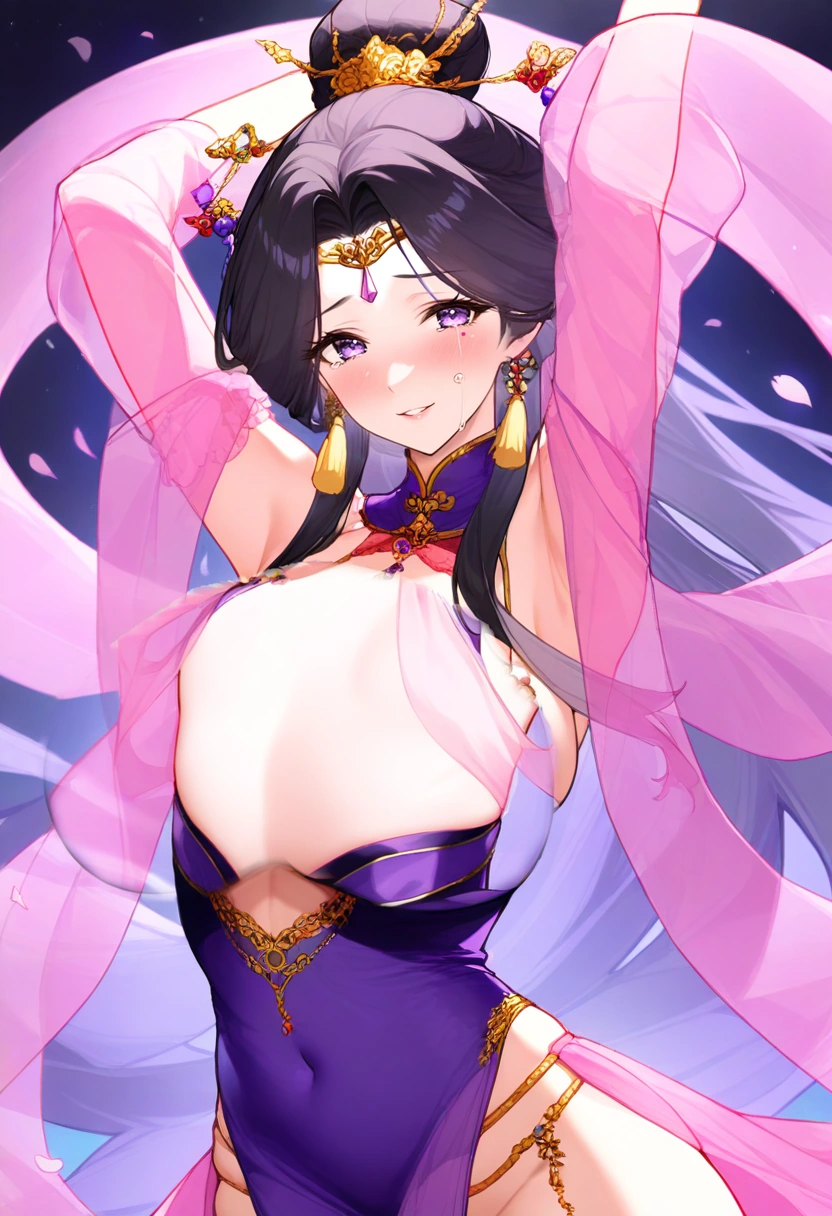
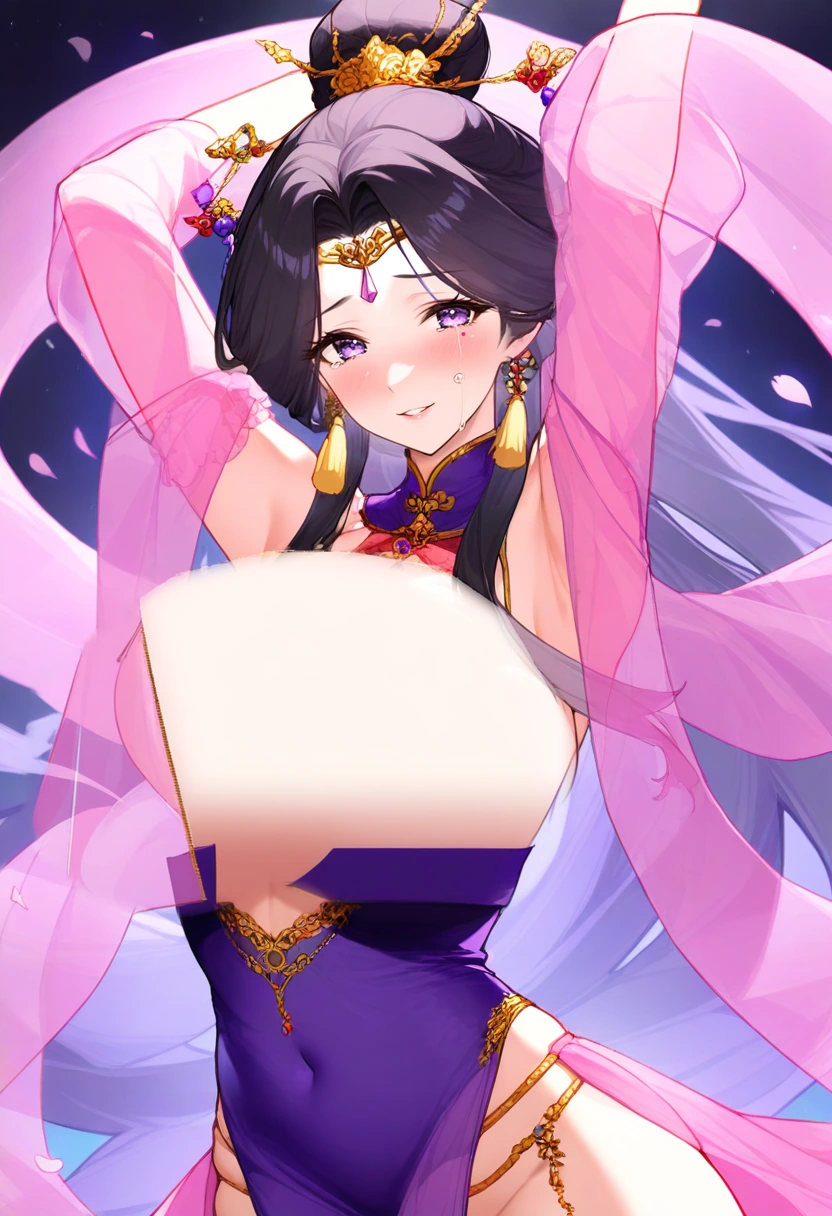
Diaochan v2: redo under layer as straight torso
Claude-Session: https://claude.ai/code/session_017CQhY3FLdH51zJppLF11JD

Changed region(s): [[0.0312, 0.4375, 0.7188, 0.75]]

diff --git a/game/public/js/layered.js b/game/public/js/layered.js
@@ -98,7 +98,7 @@
       else { cc.globalCompositeOperation = "destination-in"; cc.drawImage(m, 0, 0); }
       tex = { base: mkTex(b), chest: mkTex(c), blink: mkTex(imgs.blink) }; if (imgs.acc) tex.acc = mkTex(imgs.acc); if (imgs.hair) tex.hair = mkTex(imgs.hair);
     }
-    names.forEach(function (n) { var im = new Image(); im.onload = function () { imgs[n] = im; if (--left === 0) compose(); }; im.src = base + (R.pre || id + "_") + n + ".webp?v=7"; });   // 改圖要換這個數字，不然手機會用到舊圖
+    names.forEach(function (n) { var im = new Image(); im.onload = function () { imgs[n] = im; if (--left === 0) compose(); }; im.src = base + (R.pre || id + "_") + n + ".webp?v=8"; });   // 改圖要換這個數字，不然手機會用到舊圖
 
     var P = { K: 38, C: 3.0, BREATH: 0.0035, BT: 3.8, LIFT: 0.016, MAX: 0.042, RIM: 0.28, amp: opt.amp == null ? 1 : opt.amp };   // MAX 是胸部中心的最大位移；邊緣只動 RIM 倍（約 0.28）
     var c = [{ x: 0, y: 0, vx: 0, vy: 0 }, { x: 0, y: 0, vx: 0, vy: 0 }], ear = [{ a: 0, v: 0 }, { a: 0, v: 0 }], hair = { x: 0, v: 0 };

diff --git a/game/public/tool/sunquan.html b/game/public/tool/sunquan.html
@@ -17,7 +17,7 @@ input[type=range]{flex:1}
 <div class="row">淡化<input id="fe" type="range" min="0" max="40" step="2" value="6"><span id="fv">6</span></div>
 <div class="row">邊緣<input id="rim" type="range" min="0" max="1" step="0.05" value="0.28"><span id="rv">0.28</span></div>
 <div class="row">幅度<input id="amp" type="range" min="0.3" max="1.3" step="0.1" value="1"><span id="av">1.0</span><button id="poke">晃一下</button></div></div></div>
-<script src="../js/layered.js?v=1119b"></script>
+<script src="../js/layered.js?v=1119c"></script>
 <script>
 var ID=new URLSearchParams(location.search).get("id")||"sunquan_ur";if(ID!=="sunquan_ur"){document.title="分層立繪試作";document.querySelector("#bar b").textContent=({diaochan_v2:"貂蟬"})[ID]+"｜分層立繪試作";document.querySelector("#bar .row").style.display="none";document.getElementById("stage").style.background="#1a1020"}
 var stage=document.getElementById("stage"),amp=document.getElementById("amp"),ol=null,L=null;

diff --git a/game/public/index.html b/game/public/index.html
@@ -56,7 +56,7 @@
 <script src="js/battle.js?v=1119a"></script>
 <script src="js/scene.js?v=1119a"></script>
 <script src="js/audio.js?v=1119a"></script>
-<script src="js/layered.js?v=1119a"></script>
+<script src="js/layered.js?v=1119c"></script>
 <script src="js/cardfx.js?v=1119a"></script>
 <script src="js/jiggle.js?v=1119a"></script>
 <script src="js/ui.js?v=1119a"></script>
